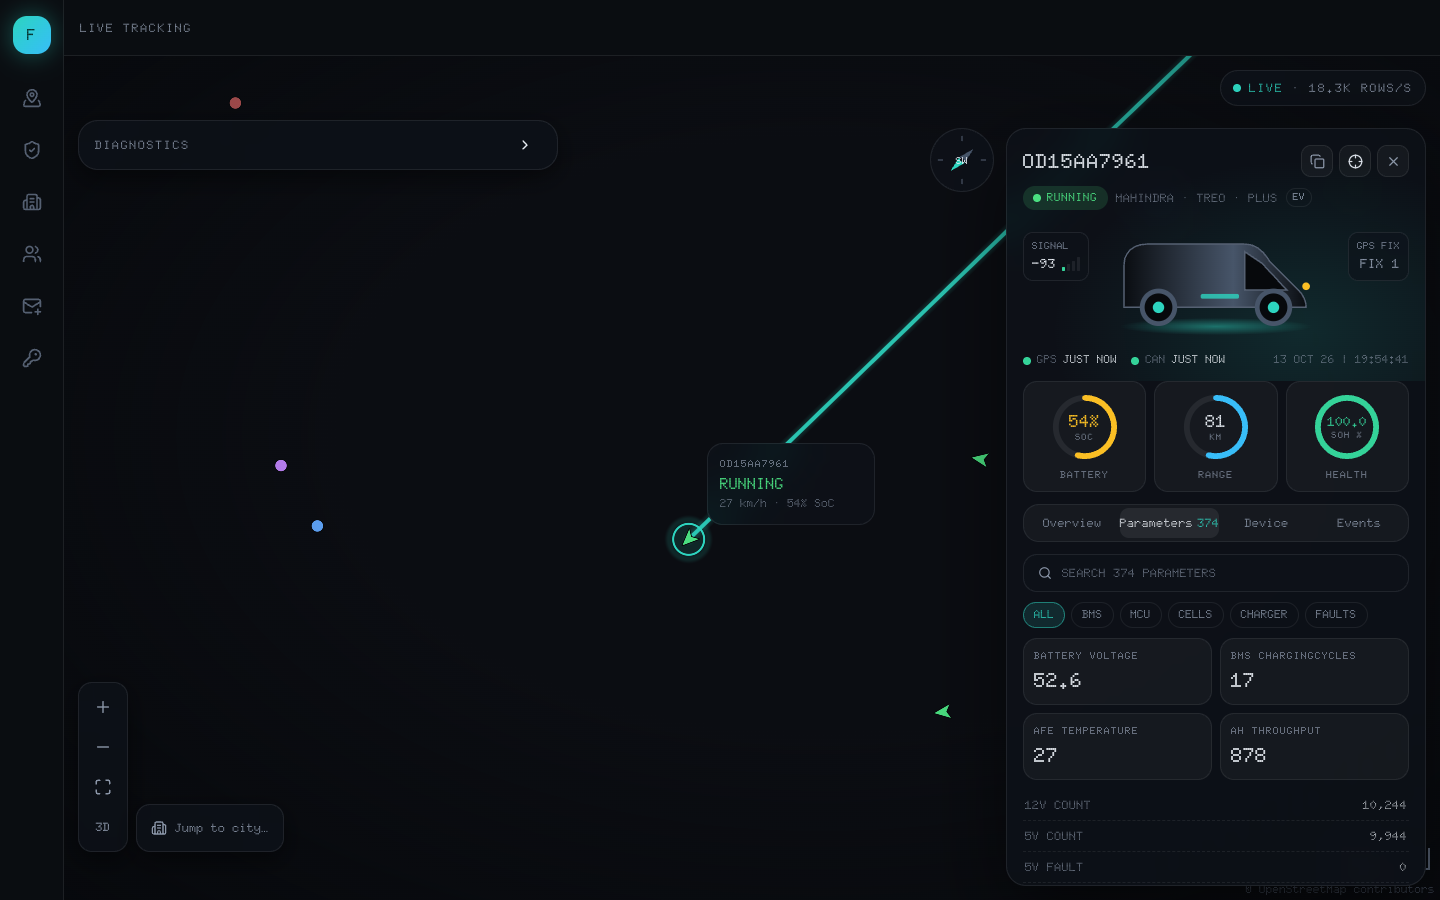
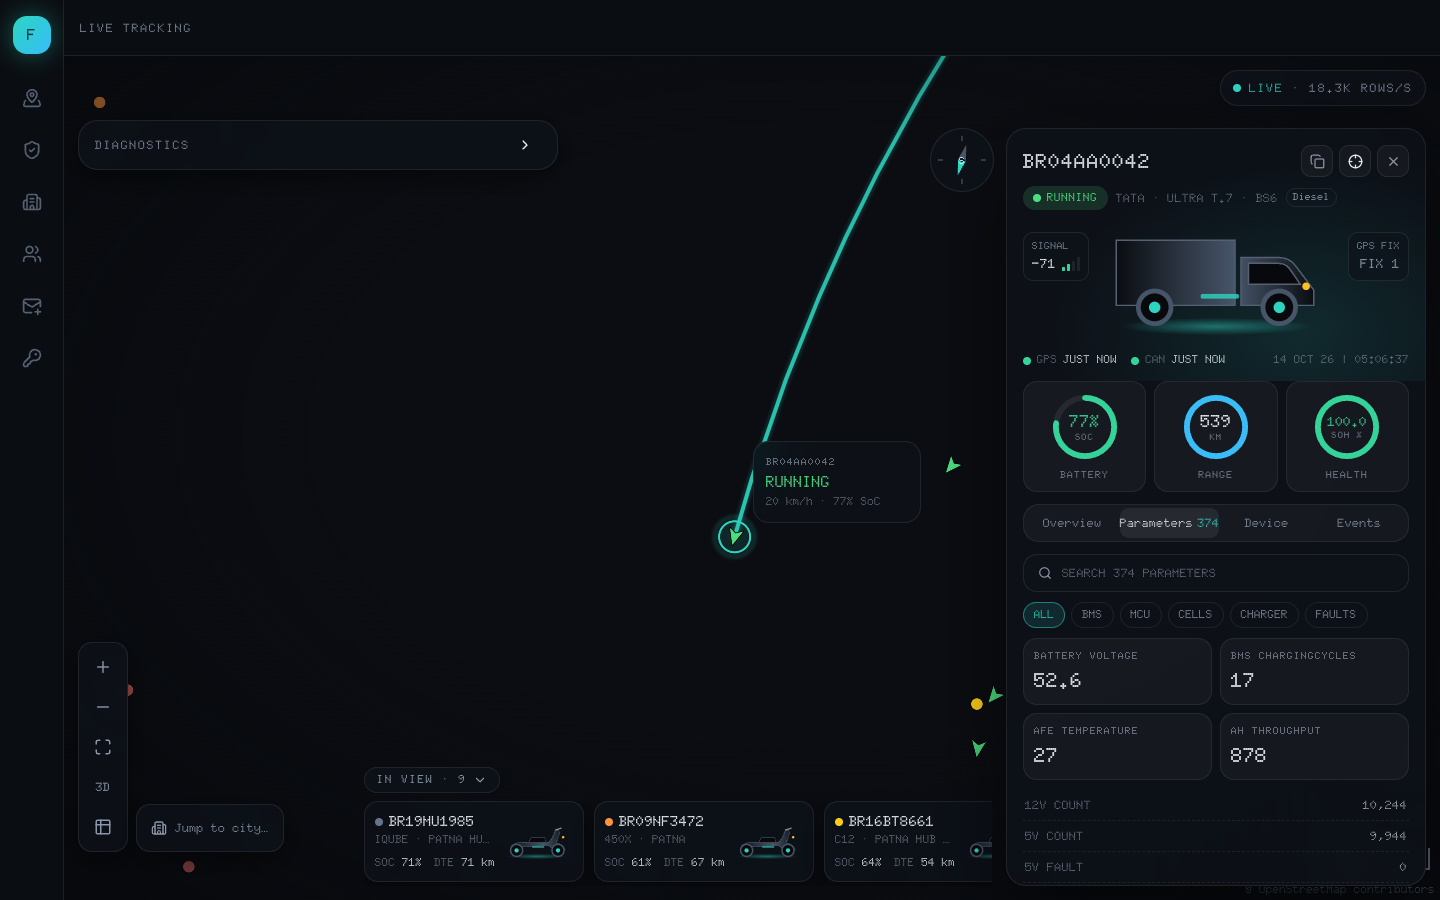
docs(f09): test report, conversation log, proposed D-068/D-069

diff --git a/docs/features/f09-table-view-csv/test-report.md b/docs/features/f09-table-view-csv/test-report.md
@@ -1,0 +1,48 @@
+# F09 — Test report
+
+Branch `feature/f09-table-csv` (worktree `../fms-ui-f09`, ports 5373/4200). **Ready for UAT.** Not merged; nothing here is accepted until UAT. The perf project as a whole is run by the orchestrator after merging.
+
+## Final runs (2026-10-14)
+| Command | Result |
+|---|---|
+| `pnpm check` (tsc -b, eslint ., vitest run) | pass — **366/366** tests, 33 files, 0 lint warnings |
+| `pnpm build` | pass; main chunk 651.4 kB (203.5 kB gzip), live-tracking worker 69.7 kB; leak scan of `dist/` for `__fmsMap`, `__fmsLive`, `dev-session`: none |
+| `playwright test --project=chromium --project=clock --no-deps` | **24/24** pass (incl. 5 new F09 specs) |
+| `playwright test e2e/table-view.perf.spec.ts --project=perf --no-deps` (single run) | pass — see Budgets |
+
+## Acceptance tests
+| ID | Result | Evidence |
+|---|---|---|
+| F09-T1 table-query | pass | `worker/table-query.test.ts`: each column type both directions (stable), windowing, all vs bbox, only `matches(i)`, version bumps |
+| F09-T2 csv-exporter | pass | same file: header + rows = table for scope/sort/columns, RFC 4180 quoting, IST timestamps, row count |
+| F09-T3 perf (node, 1 lakh) | pass | sort/cache build 5.5–28.2 ms (regno 25.7, fleet 24.9, status 11.2, soc 20.9, gpstime 5.5, location 28.2); window 0.05–0.21 ms; viewport sort 1.9 ms; export 100 000 × 13 cols 0.55 s (12.4 MB); tray 0.87–2.41 ms |
+| F09-T4 tray-query | pass | bbox, status priority then recency, limit |
+| F09-T5 components | pass | `components/table-view.test.tsx`: virtual window, sort → store, column menu persists, pause counts updates, export hidden without `table.export` |
+| F09-T6 e2e | pass | `e2e/table-view.spec.ts`: map → table → map keeps centre/zoom exactly; `?view=table` deep-links; Pune viewport count < All (1,00,000); row click → `?vehicle=` + details card over the table + row `aria-selected`; Locate → map at zoom 16, vehicle selected |
+| F09-T7 e2e | pass | wheel + scrollbar-style jumps through 1 lakh rows; last row (`aria-rowindex` 100001) loads; < 80 rows in the DOM. Export with VIN hidden: file `fleet-vehicles-YYYYMMDD-HHmm.csv`, header = visible column labels, record count (RFC 4180 parse) = table total, "Exported 1,00,000 rows" toast |
+| F09-T8 e2e | pass | Pune: 1–24 tray cards; clicking one selects it (ring, `aria-pressed`, details card) and the vehicle lies in the map bounds; after a pan the card set changes |
+| F09-T9 screenshots | done | `screenshots/`: `table-desktop.png` (with a selected row + card), `column-menu.png`, `export-in-progress.png` (CPU throttled ×6 to catch the toast), `map-with-tray.png`, `mobile-table.png` (390 px: Regno, Status, SOC; no tray) |
+| F09-T10 | pass | rows above |
+
+## Budgets (spec §3)
+| Budget | Measured | Verdict |
+|---|---|---|
+| Window query ≤ 30 ms (worker) | 0.05–0.21 ms (node, T3) | pass |
+| Table scroll at 1 lakh: no long task > 50 ms | browser (`table-view.perf`): longest 50 ms (one task, exactly at the limit); before the fix 55–86 ms | pass, **no headroom** in dev mode |
+| CSV export of 1 lakh ≤ 5 s | 584 ms browser end-to-end (0.55 s node) | pass |
+| No main-thread long task > 50 ms during export | none | pass |
+| Tray query ≤ 10 ms | ≤ 2.41 ms (node, T3) | pass |
+
+Browser numbers are from the Vite dev server (React development build), like the other perf specs; production renders are cheaper.
+
+## Bugs found and fixed during F09 verification
+- **Scroll long tasks (55–86 ms)** while wheel-scrolling 1 lakh rows: every scroll event re-rendered every row synchronously (TanStack Virtual `flushSync`) and each time cell ran its own 30 s timer. Rows are now a memoised component with stable callbacks, `useFlushSync: false`, and the relative-time tooltip is computed on hover — `86eddff`.
+- **Locate unclickable with a vehicle selected**: the details card covered the Actions column (and clipped Export CSV). The table now ends beside the card and the toolbar wraps (D-068, Proposed).
+- **Tray showed fleet ids instead of names** when its first `/api/fleets` call raced the dev sign-in (401) and was never retried — now retried with the frames until names load.
+- Heading compass floated over the table header — hidden in table view.
+- Cells clipped text without an ellipsis (truncate on a flex container); the sticky Regno cell did not take the hover/selected tint.
+- Tray stats wrapped ("77 / km") — kept on one line.
+
+## Open items
+- D-068 and D-069 are Proposed and need approval.
+- Scroll budget has no headroom in the dev build (50 ms max in the single perf run); the orchestrator's post-merge perf run should confirm.

diff --git a/docs/decision-log.md b/docs/decision-log.md
@@ -67,3 +67,5 @@ Format: one entry per decision; never edit past entries — supersede them.
 | D-061 | 2026-10-13 | The 56 px top bar (page title + page-actions slot) stays on desktop as well as mobile, restyled to `--surface-solid`; the map is not full-height under the rail as in the mockup | Keeps F00 behaviour (title, `PageActions` slot) unchanged; can be revisited when a page needs full-bleed | Accepted | — |
 | D-062 | 2026-10-13 | The LIVE pill formats rows/s in `en-IN` compact notation (e.g. `2.1L`, `18.4K`), consistent with cluster labels; the connection label keeps `data-testid="live-connection"` | Indian locale everywhere; existing clock e2e selector keeps working | Accepted | — |
 | D-063 | 2026-10-13 | Integration fixes: (a) the cluster index rebuilds immediately when a snapshot completes (`MapIndex.update(..., force)`), so the map isn't empty for up to 2 s after the first auto-fit; (b) slide-in sheets honour `prefers-reduced-motion`, and Playwright runs with `reducedMotion: 'reduce'`; (c) the trail layer sits under `selected-halo`; (d) `withAlpha` moved to `src/shared/lib/color-alpha.ts`, the one allow-listed file in the raw-colour scan | Found when merging DS1 + F07: F06-T6 failed deterministically and the mobile drawer test was flaky under load | Accepted | — |
+| D-068 | 2026-10-14 | F09: while a vehicle is selected on desktop, the table's right edge moves in by the details card (420 px + gutters) so the card sits beside the table instead of over it; the toolbar wraps when narrow | Floating over the table (F09-R1 wording) hid the row Locate column and clipped Export CSV; found by F09-T6/T9 | Proposed | — |
+| D-069 | 2026-10-14 | F09 scroll and export budgets (no long task > 50 ms, export ≤ 5 s) are asserted in `e2e/table-view.perf.spec.ts` (perf project, runs alone); the chromium F09-T7 checks virtualisation (< 80 rows in DOM, last row reachable) and export correctness only | Long-task budgets are CPU-contention sensitive; the chromium project runs 2 workers in parallel (a 69 ms task appeared only then), matching the F06/F08 perf-project convention | Proposed | — |

diff --git a/docs/features/f09-table-view-csv/conversation-log.md b/docs/features/f09-table-view-csv/conversation-log.md
@@ -9,3 +9,8 @@ Agent added `@tanstack/react-table` and `@tanstack/react-virtual` and stopped. B
 - Milestone 0 `f47b633`: the approved dependency change committed as-is (SHA-256 = manifest).
 - Milestone 1 (worker): `config/table-columns.ts` (ids, labels, defaults, `cellText` shared by table + CSV), `worker/table-query.ts` (cached order of **vehicle ids** per scope/bbox/sort, rebuilt when data changes at most every 1 s; windows read live; only `filters.matches(i)`), `worker/csv-exporter.ts` (RFC 4180, the table's own order, yields every 10 000 rows, progress callback), `worker/tray-query.ts` (bbox + matches, status priority then recency, bounded top 24). Engine: `setFleetNames`, `queryTable`, `exportCsv`, `getTray`.
 - F09-T1/T2/T4 `table-query.test.ts` 12/12. F09-T3 (node, 1 lakh): sort/cache build regno 25.7, fleet 24.9, status 11.2, soc 20.9, gpstime 5.5, location 28.2 ms; window 0.05–0.21 ms; viewport sort 1.9 ms (2 500 rows); export 100 000 × 13 cols 0.55 s (12.4 MB); tray 0.87–2.41 ms.
+
+## 2026-10-14 — Verification (F09-T6…T10)
+- E2E `e2e/table-view.spec.ts` (T6, T7, T8, T9 screenshots) + `e2e/table-helpers.ts`; budgets in `e2e/table-view.perf.spec.ts` (D-069, Proposed).
+- First runs found: wheel-scroll long tasks 55–86 ms; the details card covering the Locate column and clipping Export CSV; tray fleet ids instead of names (fetch raced the dev sign-in); heading compass over the table; clipped cells without ellipsis; wrapped tray stats. All fixed in `86eddff` (D-068 Proposed for the table-beside-card layout).
+- Final: `pnpm check` 366/366; build + dist leak scan clean; chromium + clock 24/24; one perf run: scroll longest task 50 ms, export 584 ms with no long tasks. Report: `test-report.md`.
